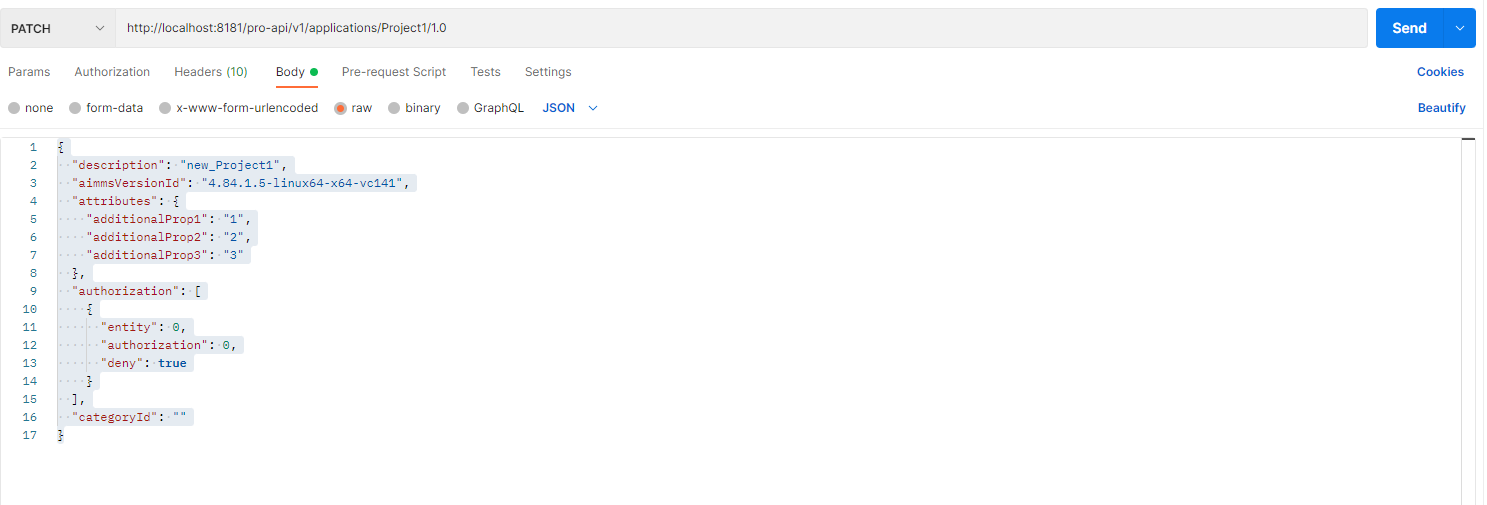
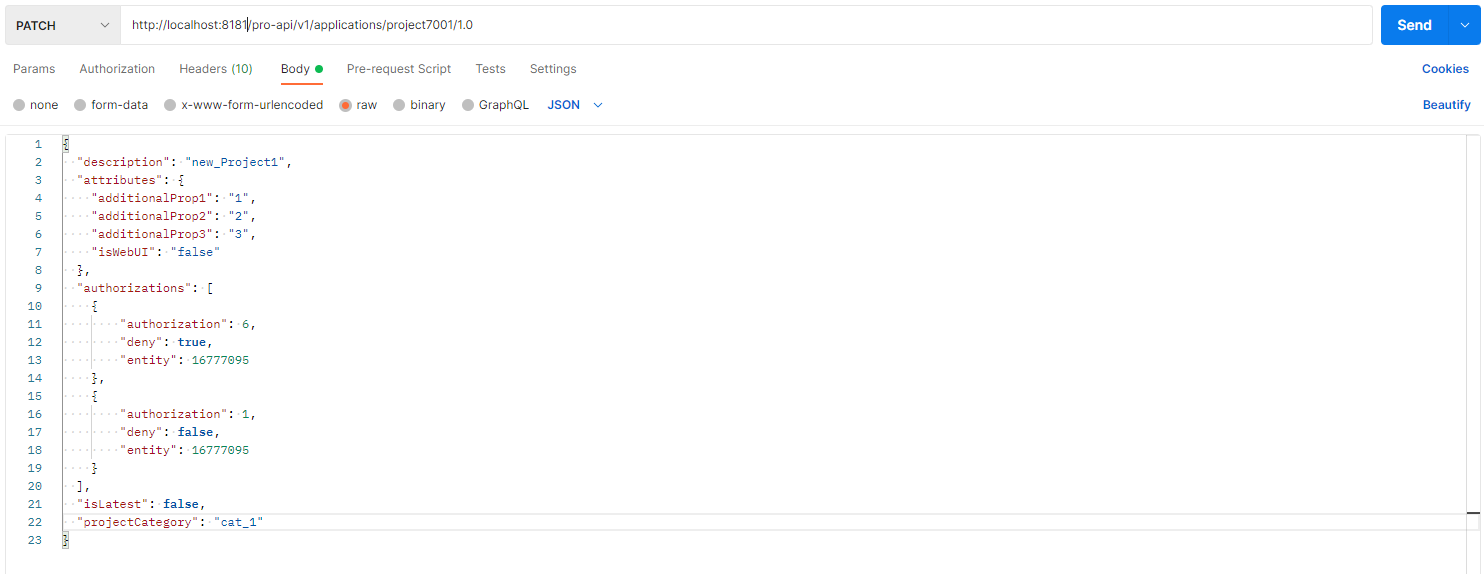
CRUD on apps documentation update

diff --git a/pro/rest-api.rst b/pro/rest-api.rst
@@ -44,7 +44,7 @@ authentication/authorization.
 Example: Using Postman to Publish an App
 -----------------------------------------
 This is an example on how to use `Postman <https://www.postman.com/>`_ in order
-to perform CRUD operations an AIMMS applications (.aimmspack) using the PRO RESt API:
+to perform CRUD operations an AIMMS applications (.aimmspack) using the PRO REST API:
 
 1. Start in the Postman request view:
 
@@ -57,7 +57,9 @@ command from the drop down menu.
 3. The request URL depends on the API spec. In some cases, request parameters are present in the URL.
 Examples of the URL:
 
-``https://[account-name].aimms.cloud/pro-api/v1/applications`` or ``https://[account-name].aimms.cloud/pro-api/v1/applications/{projectName}/{projectVersionId}``
+``https://[account-name].aimms.cloud/pro-api/v1/applications``
+
+``https://[account-name].aimms.cloud/pro-api/v1/applications/{projectName}/{projectVersionId}``
 
 To know what URL should be used, check the corresponding API spec.
 
@@ -74,11 +76,46 @@ the "raw" format.
 .. image:: images/PatchView.PNG
     :align: center
 
-Note, that it is important that *JSON* format is selected.
+For an application update, the following arguments can be used (if an argument is not provided, then it wont be changed):
+
+5.1 Project description ("description")
+
+5.2 Project category ("projectCategory")
+
+5.3 Latest app tag ("isLatest")
+
+5.4 Project attributes ("attributes"): project attributes represent a list of key-value pairs that allow to store additional information about the project. Note that "isWebUI" entry is a reserved keyword which reflects if a project is a web UI or a win UI project.
+
+5.5 Project authorizations ("authorizations"): project authorizations represent a list of entries, where each entry consists of three fields. See an example of an authorization entry below:
+
+.. code-block:: php
+
+        {
+            "authorization": 1,
+            "deny": false,
+            "entity": 16777095
+        }
+
+The "entity" field is a unique ID of either environment, group or user. The "authorization" value varies from 1 to 7 is directly related to read ("authorization": 4), write ("authorization": 2) and execute ("authorization": 1) access. In order to enable muplitple authorizations, add up the respective numbers. For example, ""authorization": 5" corresponds to read and execute access. The "deny" field is "true" or "false" when authorization is not, or is permitted.
+It is also possible to grand the read permission and restrict the write permission for the same entity ID. This would look like the following:
+
+.. code-block:: php
+
+        {
+            "authorization": 4,
+            "deny": false,
+            "entity": 16777095
+        }
+
+        {
+            "authorization": 2,
+            "deny": true,
+            "entity": 16777095
+        }
 
 6. When publishing an application it is necessary to provide two fields: ``metadata`` and ``binaryFile``.
 The field ``metadata`` needs to be provided in json format. The ``binaryFile`` field is a file upload that
-requires to point to a specific location. Example: ``(C:\Users\Vlad\Postman\files)``.
+requires to point to a specific location. Example: ``(C:\Users\UserName\Postman\files)``.
 Insert the desired *.aimmspack* in files directory and point to this directory when uploading a ``binaryFile``.
 Dont forget to select ``form-data`` format. Also note that both ``metadata`` and ``binaryFile`` names correspond
 to ones defined in the API spec.
@@ -86,6 +123,25 @@ to ones defined in the API spec.
 .. image:: images/PostView.PNG
     :align: center
 
+
+The ``metadata`` example is provided below:
+
+.. code-block:: php
+
+        {
+            "name": "project7003",
+            "description": "my_project",
+            "projectVersionId": "3.0",
+            "aimmsVersionId": "4.84.1.5-linux64-x64-vc141",
+            "attributes": {
+                "additionalProp1": "prop_1",
+                "additionalProp2": "prop_2",
+                "additionalProp3": "prop_3",
+                "isWebUI": false
+            },
+            "isLatest": "true",
+            "projectCategory": "cat_1"
+        }       
 
 Example: Using Postman to Activate an AIMMS Version
 ---------------------------------------------------
